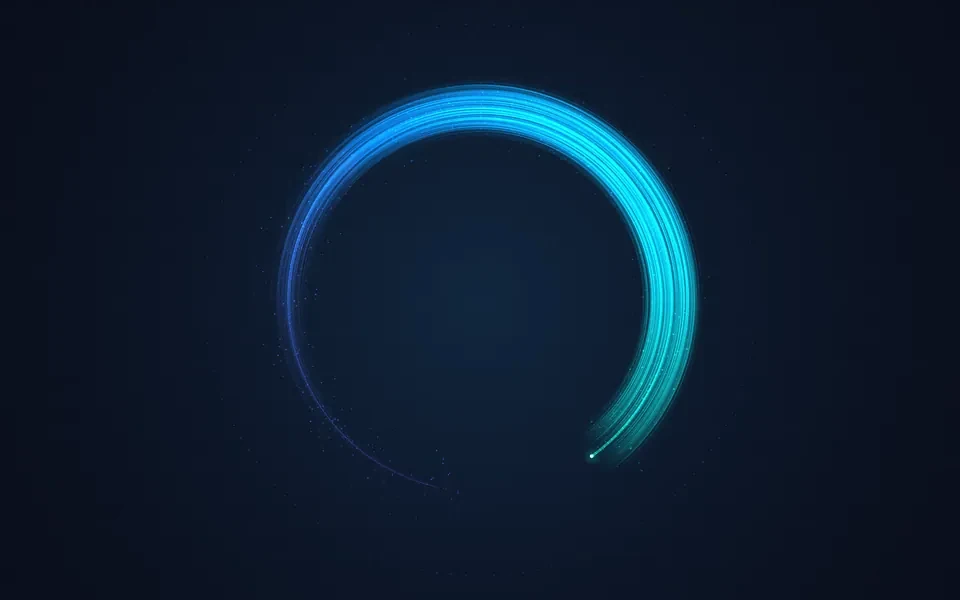
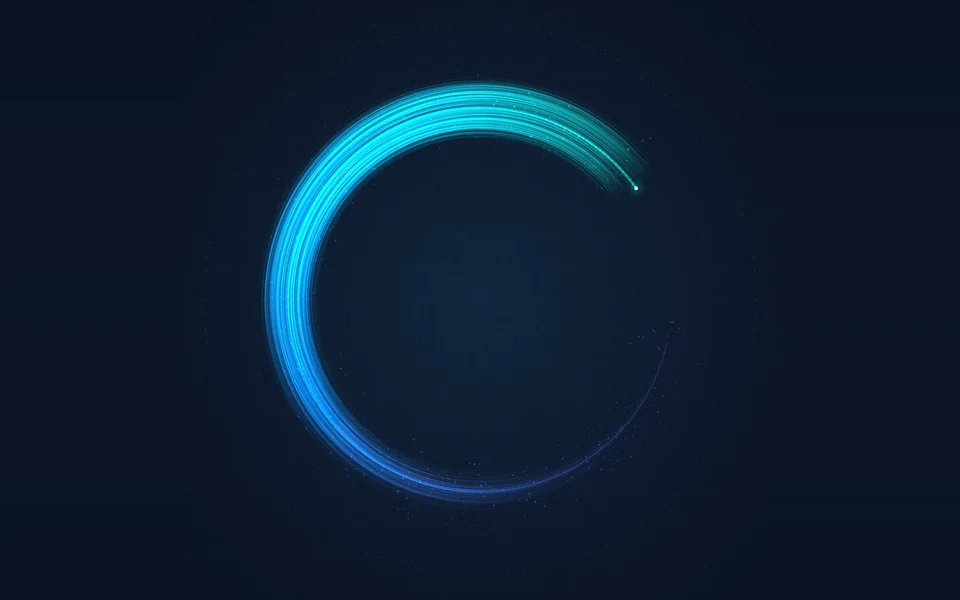
Turn the group hero Enso 90 degrees anticlockwise
The image is padded at the sides to stay 16:10, so the hero layout is
unchanged.

Claude-Session: https://claude.ai/code/session_01LQ4wHwsSD461jU5JaRTfKp

Changed region(s): [[0.25, 0.12, 0.75, 0.84]]

diff --git a/site/README.md b/site/README.md
@@ -67,7 +67,7 @@ The images are original brand artwork drawn in code, so there are no stock or th
 NODE_PATH=$(npm root -g) node site/art/render.mjs   # needs Playwright with Chromium
 ```
 
-Change a scene's seed or parameters in `render.mjs` to get a different composition. The group hero uses `enso-hero.webp` (and `-sm`), a vertical mirror of `enso-light.webp` made with Pillow; re-make it if the Enso scene changes.
+Change a scene's seed or parameters in `render.mjs` to get a different composition. The group hero uses `enso-hero.webp` (and `-sm`), `enso-light.webp` flipped vertically and turned 90° anticlockwise with Pillow (the side margins are padded to keep it 16:10); re-make it if the Enso scene changes.
 
 ## Pages
 
